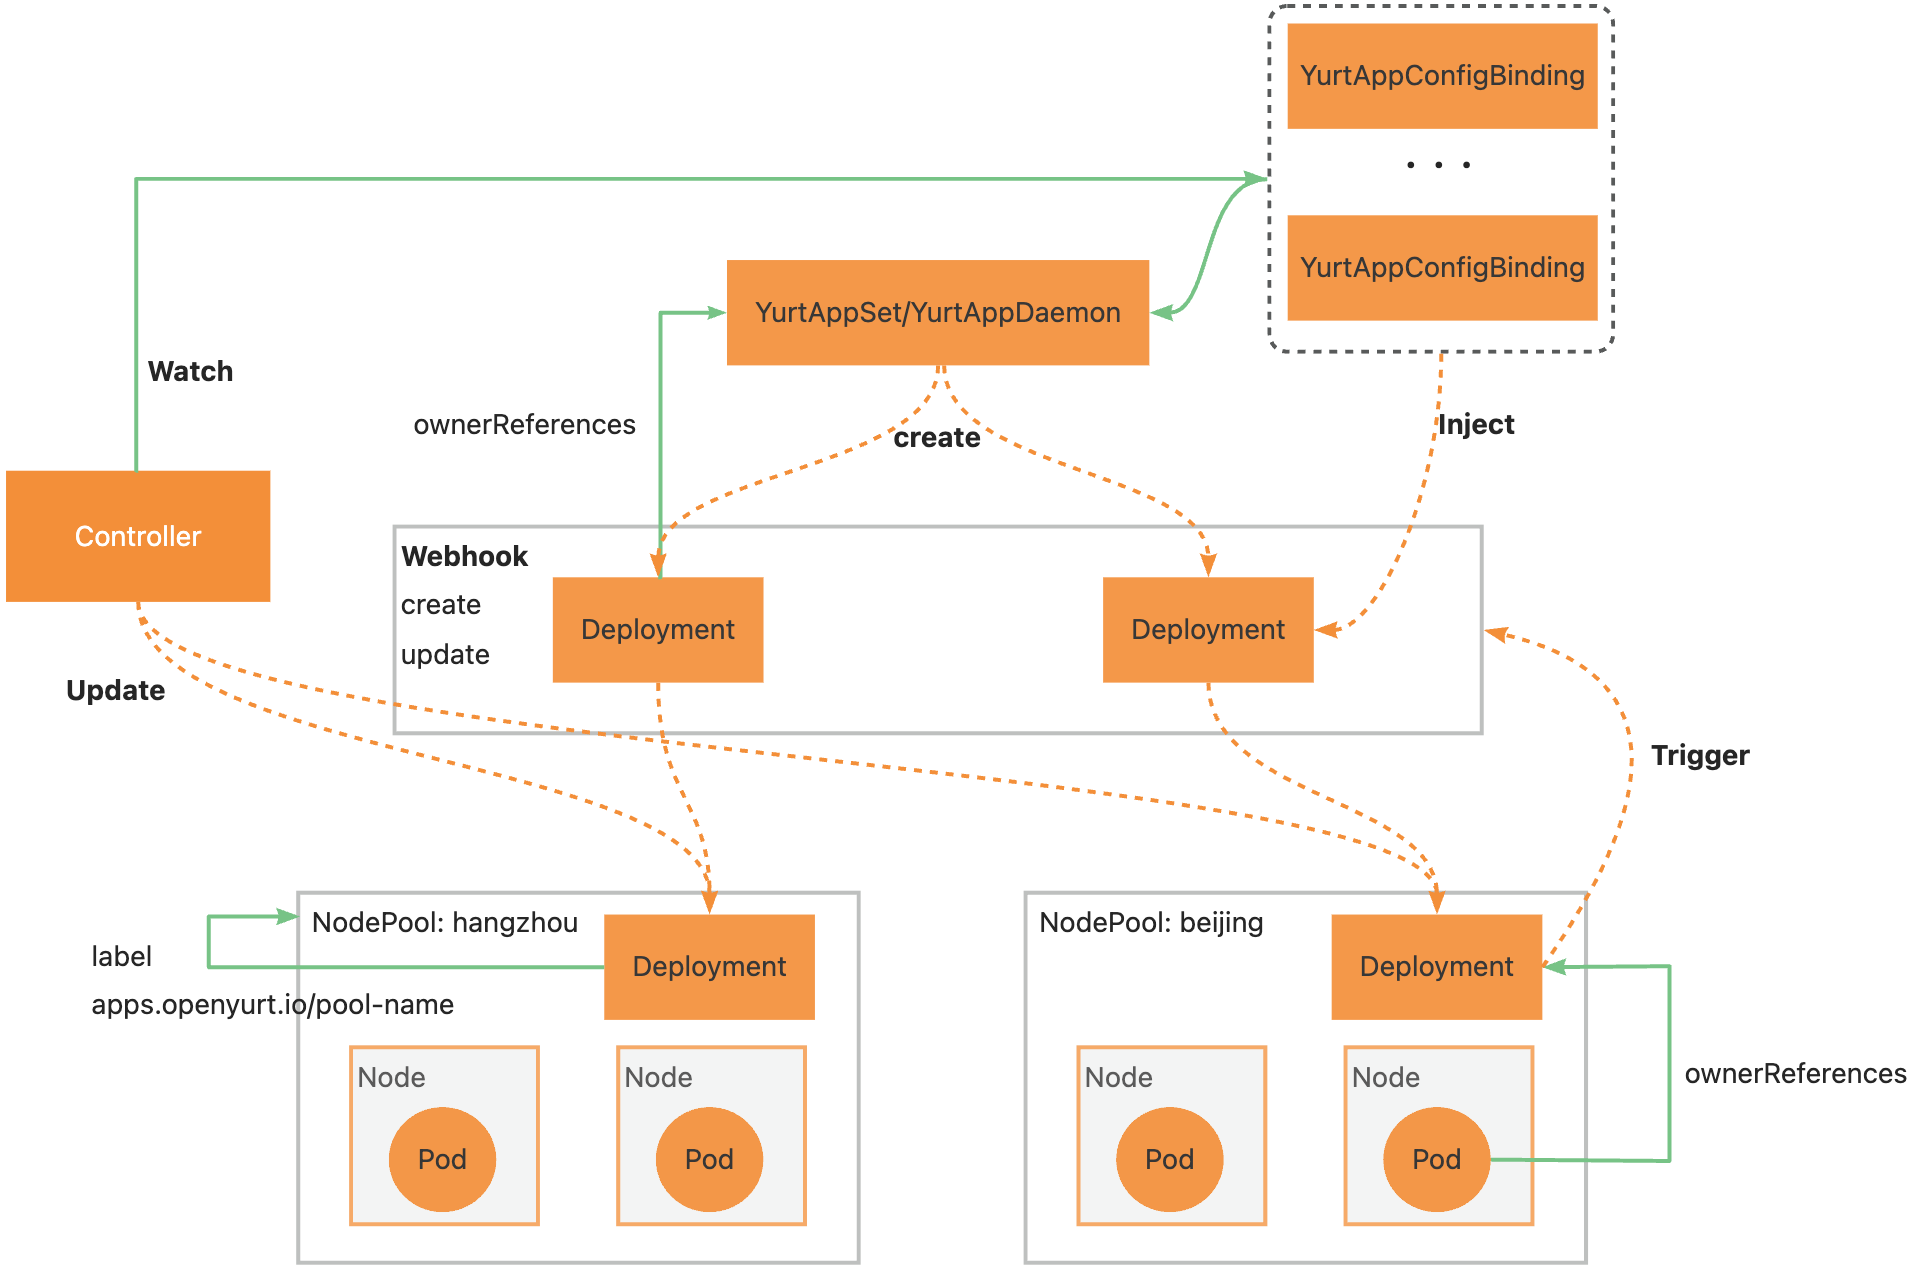
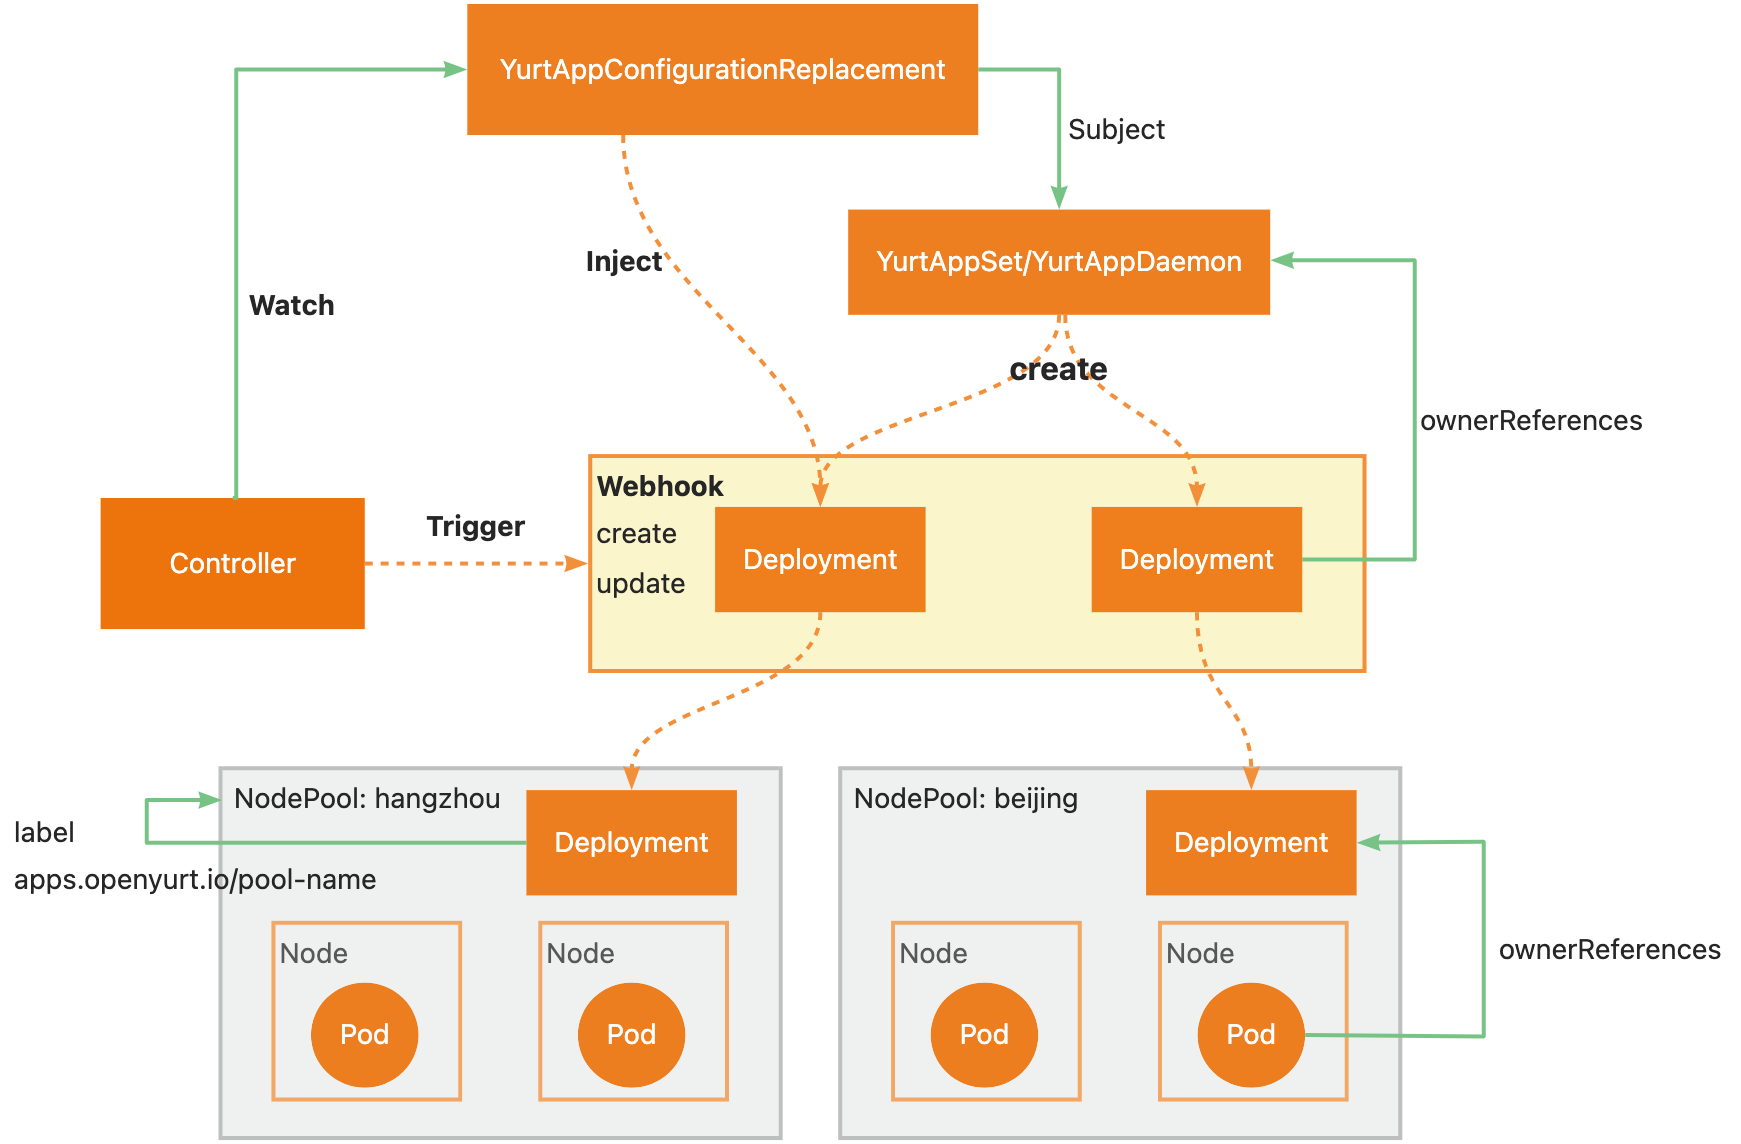
modify

diff --git a/docs/proposals/20230706-yurtappconfigurationreplacement.md b/docs/proposals/20230706-yurtappconfigurationreplacement.md
@@ -29,6 +29,7 @@ status:
 			- [YurtAppConfigurationReplacement Controller](#yurtappconfigurationreplacement-controller)
 				- [Task 1](#task-1)
 				- [Task 2](#task-2)
+			- [Extra features](#extra-features)
 		- [User Stories](#user-stories)
 			- [Story 1](#story-1)
 			- [Story 2](#story-2)
@@ -36,9 +37,9 @@ status:
 
 ## Glossary
 ### YurtAppConfigurationReplacement
-YurtAppConfigurationReplacement is a new CRD used to personalize the configuration of the workloads managed by YurtAppSet/YurtAppDaemon. It provides an simple and straightforward way to configure every field of the workload under each nodepool. 
+YurtAppConfigurationReplacement is a new CRD used to customize the configuration of the workloads managed by YurtAppSet/YurtAppDaemon. It provides an simple and straightforward way to configure every field of the workload under each nodepool. 
 ## Summary
-Due to the objective existence of heterogeneous environments such as resource configurations and network topologies in each geographic region, the configuration is always different in each region. The workloads(Deployment/StatefulSet) of nodepools in different regions can be rendered through simple configuration by using YurtAppConfigurationReplacement which also supports multiple resources. 
+Due to the objective existence of heterogeneous environments such as resource configurations and network topologies in each geographic region, the workload configuration is always different in each region. The workloads(Deployment/StatefulSet) of nodepools in different regions can be rendered through simple configuration by using YurtAppConfigurationReplacement which also supports multiple resources(YurtAppSet/YurtAppDaemon).
 ## Motivation
 YurtAppDaemon is proposed for homogeneous workloads. Yurtappset is not user-friendly and scalable, although it can be used for workload configuration by patch field. Therefore, we expect to render different configurations for each workload easily, including replicas, images, configmap, secret, pvc, etc. In addition, it is essential to support rendering of existing resources, like YurtAppSet and YurtAppDaemon, and future resources. 
 ### Goals
@@ -53,50 +54,51 @@ YurtAppDaemon is proposed for homogeneous workloads. Yurtappset is not user-frie
 ### Inspiration
 Reference to the design of ClusterRole and ClusterRoleBinding. 
 
-1. Considering the simplicity of personalized rendering configuration, an incremental-like approach is used to implement injection, i.e., only the parts that need to be modified need to be declared. They are essentially either some existing resources, such as ConfigMap, Secret, etc., or some custom fields such as Replicas, Env, etc. Therefore, it is reasonable to abstract these configurable fields into an Replacement. The design of Replacement refers to the design of VolumeSource in kubernetes. 
-2. In order to inject Replacement into the workloads, we should create a new CRD, which works as below. 
-<img src = "../img/yurtappconfigurationreplacement/Inspiration.png" width="600">
+1. Considering the simplicity of customized rendering configuration, an incremental-like approach is used to implement injection, i.e., only the parts that need to be modified need to be declared. They are essentially either some existing resources, such as ConfigMap, Secret, etc., or some custom fields such as Replicas, Env, etc. Therefore, it is reasonable to abstract these configurable fields into an Item. The design of Item refers to the design of VolumeSource in kubernetes. 
+2. In order to inject item into the workloads, we should create a new CRD named YurtAppConfigurationReplacemnet, which consist of replacements. Each replacement replace a set of configuration for matching nodepools. 
+<img src = "../img/yurtappconfigurationreplacement/inspiration.png" width="600">
 
 ### YurtAppConfigurationReplacement API
-1. YurtAppConfigurationReplacement needs to be bound to YurtAppSet/YurtAppDaemon.
+1. YurtAppConfigurationReplacement needs to be bound to YurtAppSet/YurtAppDaemon. 
 Considering that there are multiple Deployment/StatefulSet per nodepool, as shown below, it must be bound to YurtAppSet/YurtAppDaemon for injection. We use subject field to bind it to YurtAppSet/YurtAppDaemon. 
-
-
-1. YurtAppConfigurationReplacement is only responsible for injection of an Replacement, which means for each node pool that we want to personalize, we need to create a new YurtAppConfigurationReplacement resource. 
+2. YurtAppConfigurationReplacement is responsible for injection of Replacement. We only need to create a new YurtAppConfigurationReplacement resource for all nodepools under a YurtAppSet/YurtAppDaemon resource. 
 
 ```go
-// ImageReplacement specifies the corresponding container and the claimed image.
-type ImageReplacement struct {
+// ImageItem specifies the corresponding container and the claimed image
+type ImageItem struct {
 	ContainerName string `json:"containerName"`
 	// ImageClaim represents the image name which is used by container above.
 	ImageClaim string `json:"imageClaim"`
 }
 
-// EnvReplacement specifies the corresponding container and Env
-type EnvReplacement struct {
+// EnvItem specifies the corresponding containerName and the claimed env
+type EnvItem struct {
 	ContainerName string `json:"containerName"`
 	// EnvClaim represents the detailed enviroment variables that container contains.
 	EnvClaim map[string]string `json:"envClaim"`
 }
 
-type PersistentVolumeClaimReplacement struct {
+// PersistentVolumeClaimItem specifies the corresponding containerName and the claimed pvc
+type PersistentVolumeClaimItem struct {
+	// ConatinerName
 	ContainerName string `json:"containerName"`
-	// PVCSource represents volume name.
-	PVCSource     string `json:"pvcSource"`
-	// PVCTarget represents the PVC corresponding to the volume above.
-	PVCTarget     string `json:"pvcTarget"`
+	// PVCSource represents volume name
+	PVCSource string `json:"pvcSource"`
+	// PVCTarget represents the PVC corresponding to the volume above
+	PVCTarget string `json:"pvcTarget"`
 }
 
-type ConfigMapReplacement struct {
-	// ContainerName represents name of the container.
+// ConfigMapItem specifies the corresponding containerName and the claimed configMap
+type ConfigMapItem struct {
+	// ContainerName represents name of the container
 	ContainerName string `json:"containerName"`
-	// ConfigMapSource represents volume name.
+	// ConfigMapSource represents volume name
 	ConfigMapSource string `json:"configMapClaim"`
-	// ConfigMapTarget represents the ConfigMap corresponding to the volume above.
+	// ConfigMapTarget represents the ConfigMap corresponding to the volume above
 	ConfigMapTarget string `json:"configMapTarget"`
 }
 
-type SecretReplacement struct {
+type SecretItem struct {
 	// ContainerName represents name of the container.
 	ContainerName string `json:"containerName"`
 	// SecretSource represents volume name.
@@ -105,24 +107,28 @@ type SecretReplacement struct {
 	SecretTarget string `json:"secretTarget"`
 }
 
-// Replacement represents configuration to be injected.
-// Only one of its members may be specified.
 type Replacement struct {
-	Image                 *ImageReplacement                 `json:"image"`
-	ConfigMap             *ConfigMapReplacement             `json:"configMap"`
-	Secret                *SecretReplacement                `json:"secret"`
-	Env                   *EnvReplacement                   `json:"env"`
-	PersistentVolumeClaim *PersistentVolumeClaimReplacement `json:"persistentVolumeClaim"`
-	Replicas              *int                              `json:"replicas"`
-	UpgradeStrategy       *string                           `json:"upgradeStrategy"`
+	Pools []string `json:"pools"`
+	Items []Item   `json:"items"`
+}
+
+// Item represents configuration to be injected.
+// Only one of its members may be specified.
+type Item struct {
+	Image                 *ImageItem                 `json:"image"`
+	ConfigMap             *ConfigMapItem             `json:"configMap"`
+	Secret                *SecretItem                `json:"secret"`
+	Env                   *EnvItem                   `json:"env"`
+	PersistentVolumeClaim *PersistentVolumeClaimItem `json:"persistentVolumeClaim"`
+	Replicas              *int                       `json:"replicas"`
+	UpgradeStrategy       *string                    `json:"upgradeStrategy"`
 }
 
 type Subject struct {
 	metav1.TypeMeta `json:",inline"`
 	// Name is the name of YurtAppSet or YurtAppDaemon
-	Name string `json:"name"`
-	// Pools represent names of nodepool that replacements will be injected into.
-	Pools []string `json:"pools"`
+	NameSpace string `json:"nameSpace"`
+	Name      string `json:"name"`
 }
 
 type YurtAppConfigurationReplacement struct {
@@ -131,15 +137,16 @@ type YurtAppConfigurationReplacement struct {
 	// Standard object's metadata
 	metav1.ObjectMeta `json:"metadata,omitempty"`
 
-	// Describe the object to which replacements belongs
+	// Describe the object this replacement belongs
 	Subject Subject `json:"subject"`
-	// Describe detailed configuration to be injected of the subject above.
+
+	// Describe detailed multi-region configuration of the subject above
 	Replacements []Replacement `json:"replacements"`
 }
 ```
 ### Architecture
 The whole architecture is shown below. 
-<img src = "../img/yurtappconfigurationreplacement/Architecture.png" width="800">
+<img src = "../img/yurtappconfigurationreplacement/architecture.png" width="800">
 
 ### Implementation Details
 #### Deployment Mutating Webhook
@@ -148,28 +155,42 @@ Since YurtManager is deployed as a Deployment, the Deployment webhook and YurtMa
 
 Solutions:
 1. Change YurtManager deploying method, like static pod
-2. YurtManager is in charge of managing the webhook, we can modify the internal implementation of YurtManager
-3. Controller is responsible for both creating and updating  However, there will be a period of unavailability(wrong configuration information)
-4. FailurePolicy set to ignore(difficult to detect in the case of malfunction)
+2. Controller is responsible for both creating and updating. However, there will be a period of unavailability(wrong configuration information)
+3. Webhook's failurePolicy set to ignore(difficult to detect in the case of malfunction)
+4. YurtManager is in charge of managing the webhook, we can modify the internal implementation of YurtManager(Recommended)
 ##### Workflow of mutating webhook
 1. If the intercepted Deployment's ownerReferences field is empty, filter it directly
 2. Find the corresponding YurtAppConfigurationReplacement resource by ownerReferences, if not, filter directly
-3. Find the replacements involved, get the corresponding configuration, and inject them into workloads
+3. Find the replacements involved, get the corresponding configuration, and inject them into workloads. Note that injection is implemented by recalculating the final configuration according to the YurtAppSet workload template and the watching YurtAppConfigurationReplacement
 #### YurtAppConfigurationReplacement Validating Webhook
-1. Verify that only one field of replacement is selected
-2. verify that replicas and upgradeStrategy are selected only once
+1. Verify that only one field of item is selected
+2. Verify that replicas and upgradeStrategy are selected only once in a replacement
 #### YurtAppConfigurationReplacement Controller
 ##### Task 1
 1. Get update events by watching the YurtAppConfigurationReplacement resource
 2. Trigger the Deployment mutating webhook by modifying an annotation or label
 ##### Task 2
-1. Get delete events by watching the YurtAppConfigurationReplacement resource
+1. Get delete events(delete members of pools) by watching the YurtAppConfigurationReplacement resource
 2. Render the configuration according to the YurtAppSet workload template and the watching YurtAppConfigurationReplacement
+#### Extra features
+Here is a scenario. Ten nodepools only need to be configured differently for configMap, it is not user-friendly to write ten replacements by using current scheme. 
+We add a new function like wildcard to simplify the usage. We can name all the configMap as configMap-{{nodepool}} so that we can inject the configMap into nodepool in the suffix. 
+```yaml
+replacements:
+- pools:
+    *
+  items:
+  - configMap:
+      containerName: abc
+      configMapSource: source
+      configMapTarget: configMap-*
+```
+In this way, we only need to write one replacement. Secret and pvc are similar. Through this feature, it will be easier to customize multi-region configuration.
 ### User Stories
 #### Story 1
-Use YurtAppSet with YurtAppConfigurationReplacement for personalized configuration of each region. Create YurtAppConfigurationReplacement first and then create YurtAppSet. If update is needed, modify YurtAppConfigurationReplacement resource directly. 
+Use YurtAppSet with YurtAppConfigurationReplacement for customized configuration of each region. Create YurtAppConfigurationReplacement first and then create YurtAppSet. If update is needed, modify YurtAppConfigurationReplacement resource directly. 
 #### Story 2
-Use YurtAppDaemon with YurtAppConfigurationReplacement for personalized configuration of each region. The usage is similar as YurtAppSet. 
+Use YurtAppDaemon with YurtAppConfigurationReplacement for customized configuration of each region. The usage is similar as YurtAppSet. 
 ## Implementation History
 - [ ] : YurtAppConfigurationReplacement API CRD
 - [ ] : Deployment Mutating Webhook
